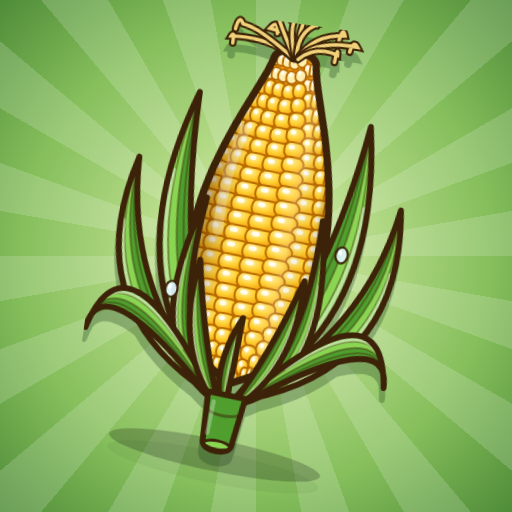
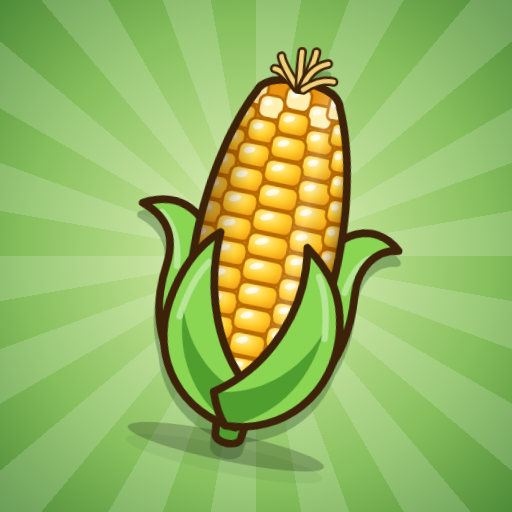
Chunkier cartoon corn art and Titan One font
Claude-Session: https://claude.ai/code/session_01UC9ARqXkBNybh3LQ7YcKBk

Changed region(s): [[0.1562, 0.0312, 0.8125, 0.9375]]

diff --git a/index.html b/index.html
@@ -13,19 +13,18 @@
 <link rel="apple-touch-icon" href="icon-180.png">
 <link rel="icon" type="image/png" href="icon-192.png">
 <title>Corn Hub</title>
-<link rel="preconnect" href="https://fonts.googleapis.com">
-<link href="https://fonts.googleapis.com/css2?family=Lilita+One&display=swap" rel="stylesheet">
 <style>
 /* VOICE: chunky comic mobile-game, glossy and juicy
    IDEA: a corn-sorting arcade with a home hub, unlockable backdrops and treasure cobs
    PICTURE: one big outlined ear of corn, tapered rows of shiny kernels, layered veined husks
-   COLOUR and TYPE: themeable sunburst (default muted leaf-green), kernel gold; Lilita One with dark outline
+   COLOUR and TYPE: themeable sunburst (default muted leaf-green), kernel gold; Titan One with dark outline
    LAYOUT: home hub (logo, cob, play), game (HUD, cob, two buttons), full-screen panels for skins and missions */
[1 lines of base64/hex data omitted]
 :root{color-scheme:light;--red:#e24a3b;--grn:#4fb53a}
 *{box-sizing:border-box;min-width:0;-webkit-tap-highlight-color:transparent}
 [hidden]{display:none!important}
 html,body{height:100%;margin:0;overscroll-behavior:none}
-body{font:400 16px/1.3 'Lilita One',system-ui,sans-serif;color:#fff;overflow:hidden;user-select:none;-webkit-user-select:none;touch-action:manipulation;background:#f3c33a;background-size:150px 204px}
+body{font:400 16px/1.3 'Titan One','Arial Black',system-ui,sans-serif;color:#fff;overflow:hidden;user-select:none;-webkit-user-select:none;touch-action:manipulation;background:#f3c33a;background-size:150px 204px}
 button{font:inherit;color:#fff;cursor:pointer}
 .ol{text-shadow:0 4px 0 var(--ol),3px 3px 0 var(--ol),-3px 3px 0 var(--ol),3px -2px 0 var(--ol),-3px -2px 0 var(--ol),0 -3px 0 var(--ol),3px 0 0 var(--ol),-3px 0 0 var(--ol)}
 .ol2{text-shadow:0 2px 0 var(--ol),2px 2px 0 var(--ol),-2px 2px 0 var(--ol),2px -1px 0 var(--ol),-2px -1px 0 var(--ol),0 -2px 0 var(--ol)}
@@ -71,12 +70,12 @@ background:repeating-linear-gradient(92deg,#b9793a 0 22px,#a96a2e 22px 25px,#c28
 .hero{position:relative;display:grid;place-items:center;padding-bottom:34px;min-height:0}
 .hero svg{height:min(96%,40vh);max-height:380px;width:auto}
 #heroCob{animation:bob 2.2s ease-in-out infinite;will-change:transform}
-.hero .bestline{position:absolute;bottom:6px;left:0;right:0;font-size:20px}
+.hero .bestline{position:absolute;bottom:6px;left:0;right:0;font-size:min(17px,4.3vw);white-space:nowrap}
 .go{font-size:34px;background:linear-gradient(#ffd84a,#f29a0c);border:4px solid var(--ol);border-radius:22px;box-shadow:0 7px 0 var(--ol),inset 0 6px 0 rgba(255,255,255,.35);padding:12px 40px 14px;animation:throb 1.1s ease-in-out infinite}
 .go:active{transform:translateY(5px);box-shadow:0 1px 0 var(--ol);animation:none}
 #home .go{width:100%;font-size:40px;padding:14px}
 .menu{display:grid;grid-template-columns:1fr 1fr;gap:10px;margin-top:14px}
-.mbtn{position:relative;height:52px;font-size:19px;border:4px solid var(--ol);border-radius:18px;background:linear-gradient(var(--hud2),var(--hud));box-shadow:0 5px 0 var(--ol),inset 0 5px 0 rgba(255,255,255,.22)}
+.mbtn{position:relative;height:52px;font-size:min(17px,4.2vw);border:4px solid var(--ol);border-radius:18px;background:linear-gradient(var(--hud2),var(--hud));box-shadow:0 5px 0 var(--ol),inset 0 5px 0 rgba(255,255,255,.22)}
 .mbtn:active,.tbtn:active{transform:translateY(5px) scale(.97);box-shadow:0 1px 0 var(--ol)}
 .dot{position:absolute;top:-10px;right:-6px;min-width:26px;height:26px;border-radius:13px;background:var(--red);border:3px solid var(--ol);font-size:15px;line-height:20px;padding:0 5px}
 
@@ -153,8 +152,8 @@ button:focus-visible{outline:4px solid #fff;outline-offset:3px}
 .over{position:absolute;inset:0;display:grid;place-items:center;background:rgba(0,0,0,.55);z-index:6;padding:calc(env(safe-area-inset-top) + 12px) 12px calc(env(safe-area-inset-bottom) + 12px)}
 .panel{position:relative;background:linear-gradient(var(--hud2),var(--hud));border:5px solid var(--ol);border-radius:28px;box-shadow:0 8px 0 var(--ol),inset 0 4px 0 rgba(255,255,255,.25);padding:16px 14px 20px;max-width:380px;width:100%;max-height:100%;overflow:auto;text-align:center;animation:popin .4s cubic-bezier(.3,1.5,.5,1)}
 .panel.full{height:100%;display:grid;grid-template-rows:auto auto 1fr;padding-bottom:12px}
-.panel h2{font-size:36px;line-height:1;margin:4px 46px 6px;color:#ffe14d}
-.panel p{margin:6px 0;font-size:17px;line-height:1.25}
+.panel h2{font-size:29px;line-height:1;margin:4px 46px 6px;color:#ffe14d}
+.panel p{margin:6px 0;font-size:16px;line-height:1.25}
 .panel .big{font-size:76px;line-height:1}
 .x{position:absolute;top:10px;right:10px;width:44px;height:44px;border-radius:14px;border:4px solid var(--ol);background:var(--red);font-size:22px;box-shadow:0 4px 0 var(--ol);z-index:2}
 .demo{display:flex;justify-content:center;gap:6px;margin:8px 0;background:rgba(0,0,0,.2);border:3px solid var(--ol);border-radius:18px;padding:10px 4px 8px}
@@ -164,7 +163,7 @@ button:focus-visible{outline:4px solid #fff;outline-offset:3px}
 .chip{background:var(--a,rgba(0,0,0,.3));border:3px solid var(--ol);border-radius:12px;padding:1px 10px 3px;font-size:17px;box-shadow:0 3px 0 var(--ol)}
 .earn{font-size:26px;color:#ffe14d}
 .tabs{display:grid;grid-template-columns:1fr 1fr;gap:8px;margin:6px 0 10px}
-.tab{height:46px;font-size:19px;border:4px solid var(--ol);border-radius:14px;background:rgba(0,0,0,.3)}
+.tab{height:46px;font-size:15px;border:4px solid var(--ol);border-radius:14px;background:rgba(0,0,0,.3)}
 .tab.on{background:linear-gradient(#ffd84a,#f29a0c);box-shadow:0 4px 0 var(--ol)}
 .grid{display:grid;grid-template-columns:1fr 1fr;gap:10px;overflow:auto;align-content:start;padding:2px 2px 8px}
 .item{background:rgba(0,0,0,.25);border:4px solid var(--ol);border-radius:18px;padding:8px 8px 10px;display:grid;gap:6px}
@@ -372,19 +371,7 @@ const dstr=d=>d.getFullYear()+'-'+(d.getMonth()+1)+'-'+d.getDate();
 /* ---------- comic corn ---------- */
 let uid=0;
 const f=v=>v.toFixed(1);
-function leaf(b,c,t,w,c1,c2,ol){
-  const dx=t[0]-b[0],dy=t[1]-b[1],L=Math.hypot(dx,dy),nx=-dy/L,ny=dx/L;
-  const K=m=>[c[0]+nx*w*m,c[1]+ny*w*m],P=p=>f(p[0])+' '+f(p[1]);
-  const B=P(b),E=P(t),a=K(1),d=K(-.85),k=K(.68),u=.2,v=.78;
-  const sub=(s0,s1)=>[0,1].map(i=>(1-s0)*(1-s1)*b[i]+(s0*(1-s1)+s1*(1-s0))*k[i]+s0*s1*t[i]);
-  const pt=s=>[0,1].map(i=>(1-s)*(1-s)*b[i]+2*s*(1-s)*k[i]+s*s*t[i]);
-  const shape=`M${B}Q${P(a)} ${E}Q${P(d)} ${B}z`;
-  return `<path d="${shape}" fill="${c1}"/><path d="M${B}Q${P(K(0))} ${E}Q${P(d)} ${B}z" fill="${c2}"/>
-  <path d="${[0,.5,-.42,.82].map(m=>`M${B}Q${P(K(m))} ${E}`).join('')}" fill="none" stroke="${ol}" stroke-width="1.4" opacity=".4"/>
-  <path d="M${P(pt(u))}Q${P(sub(u,v))} ${P(pt(v))}" fill="none" stroke="#fff" stroke-width="3" stroke-linecap="round" opacity=".42"/>
-  <path d="${shape}" fill="none" stroke="${ol}" stroke-width="4" stroke-linejoin="round"/>`;
-}
-const Wd=y=>{const t=Math.max(0,Math.min(1,(y-28)/224));return 46*Math.pow(Math.sin(Math.PI*Math.min(1,.05+.95*Math.pow(t,1.3))),.6)};
+const Wd=y=>{const t=Math.max(0,Math.min(1,(y-30)/222));return 56*Math.pow(Math.sin(Math.PI*Math.min(1,.1+.75*t)),.45)};
 function cob(type,seed,still,skinId,layers){
   const sk=SK.find(s=>s.id===(skinId||S.cob))||SK[0];
   const t=type==='good'?Object.assign({},T.good,{base:sk.base,ks:sk.ks,g:sk.g}):T[type];
@@ -392,26 +379,25 @@ function cob(type,seed,still,skinId,layers){
   const r=v=>{seed=(seed*9301+49297)%233280;return seed/233280*v};
   const hus=t.hus||(r(1)<.5?['#8ad653','#4f9e2e']:['#9ade5c','#5aa834']);
   let L='',R='';
-  for(let y=28;y<=252;y+=8){const w=Wd(y);L+=`L${f(110-w)} ${y}`;R=`L${f(110+w)} ${y}`+R}
-  const body=`M110 19Q${f(110-Wd(28))} 19 ${L.slice(1)}Q110 262 ${R.slice(1)}Q${f(110+Wd(28))} 19 110 19z`;
-  const ph=[0,1,2,3,4,5,6,7,8].map(()=>r(6));
+  for(let y=30;y<=252;y+=6){const w=Wd(y);L+=`L${f(110-w)} ${y}`;R=`L${f(110+w)} ${y}`+R}
+  const body=`M110 16Q${f(110-Wd(30)*.9)} 17 ${L.slice(1)}Q110 268 ${R.slice(1)}Q${f(110+Wd(30)*.9)} 17 110 16z`;
   let k='';
-  for(let row=0;row<23;row++){
-    for(let i=0;i<9;i++){
-      const th=(-76+i*19)*Math.PI/180,c=Math.cos(th);
-      const yy=24+row*10.2+ph[i]+4*(1-c),w=Wd(yy),sc=w/46;
-      if(w<6)continue;
-      const x=110+w*1.03*Math.sin(th),rx=(8.3*c+.8)*sc+.4,ry=row<2?4.3:5.4,tip=row<2;
-      let fill=`url(#${id}k)`,hi=.85,dot='';
-      if(bad){const q=r(1);fill=q<.4?'#4a3326':q<.7?'#3a2619':q<.85?'#6a4d33':'#1a110a';hi=r(1)<.25?.25:0}
+  for(let row=0;row<13;row++){
+    for(let i=0;i<5;i++){
+      const th=(-62+i*31)*Math.PI/180,c=Math.cos(th);
+      const yy=30+row*19.5+(i%2?9.75:0)+3*(1-c),w=Wd(yy);
+      if(yy>266)continue;
+      const x=110+w*Math.sin(th),rx=w*.262*c+1.4,ry=9.1,tip=yy<44;
+      let fill=`url(#${id}k)`,hi=.75,dot='';
+      if(bad){const q=r(1);fill=q<.4?'#4a3326':q<.7?'#3a2619':q<.85?'#6a4d33':'#1a110a';hi=r(1)<.3?.2:0}
       else if(type==='good'){if(tip)fill=sk.tip;else if(sk.g2&&r(1)<.42)fill=`url(#${id}j)`}
-      else if(type==='galaxy'){hi=.3;if(r(1)<.2)dot=`<circle cx="${f(x+r(4)-2)}" cy="${f(yy+r(3)-1)}" r="${f(.9+r(1.1))}" fill="#fff"/>`}
+      else if(type==='galaxy'){hi=.3;if(r(1)<.45)dot=`<circle cx="${f(x+r(8)-4)}" cy="${f(yy+r(8)-4)}" r="${f(1+r(1.4))}" fill="#fff"/>`}
       if(type==='diamond'){
-        const q=Math.min(rx,ry)*.55,X0=f(x-rx),X1=f(x+rx),Y0=f(yy-ry),Y1=f(yy+ry);
-        k+=`<path d="M${f(x-rx+q)} ${Y0}H${f(x+rx-q)}L${X1} ${f(yy-ry+q)}V${f(yy+ry-q)}L${f(x+rx-q)} ${Y1}H${f(x-rx+q)}L${X0} ${f(yy+ry-q)}V${f(yy-ry+q)}z" fill="${fill}" stroke="${t.ks}" stroke-width="1.2"/><path d="M${f(x-rx*.55)} ${f(yy-ry*.45)}H${f(x+rx*.55)}L${f(x)} ${f(yy+ry*.6)}z" fill="#fff" opacity="${f(.25+r(.45))}"/>`;
+        const q=Math.min(rx,ry)*.5,X0=f(x-rx),X1=f(x+rx),Y0=f(yy-ry),Y1=f(yy+ry);
+        k+=`<path d="M${f(x-rx+q)} ${Y0}H${f(x+rx-q)}L${X1} ${f(yy-ry+q)}V${f(yy+ry-q)}L${f(x+rx-q)} ${Y1}H${f(x-rx+q)}L${X0} ${f(yy+ry-q)}V${f(yy-ry+q)}z" fill="${fill}" stroke="${t.ks}" stroke-width="2"/><path d="M${f(x-rx*.55)} ${f(yy-ry*.5)}H${f(x+rx*.55)}L${f(x)} ${f(yy+ry*.6)}z" fill="#fff" opacity="${f(.3+r(.45))}"/>`;
       }else{
-        k+=`<rect x="${f(x-rx)}" y="${f(yy-ry)}" width="${f(rx*2)}" height="${f(ry*2)}" rx="${f(Math.min(rx,4.6))}" fill="${fill}" stroke="${t.ks}" stroke-width="1.3"/>${dot}`;
-        if(hi)k+=`<ellipse cx="${f(x-rx*.3)}" cy="${f(yy-2)}" rx="${f(2.6*c*sc+.3)}" ry="1.7" fill="#fff" opacity="${hi}"/>`;
+        k+=`<rect x="${f(x-rx)}" y="${f(yy-ry)}" width="${f(rx*2)}" height="${f(ry*2)}" rx="${f(Math.min(rx*.7,6))}" fill="${fill}" stroke="${t.ks}" stroke-width="2.2"/>${dot}`;
+        if(hi)k+=`<ellipse cx="${f(x-rx*.32)}" cy="${f(yy-ry*.34)}" rx="${f(rx*.36)}" ry="${f(ry*.28)}" transform="rotate(-24 ${f(x-rx*.32)} ${f(yy-ry*.34)})" fill="#fff" opacity="${hi}"/>`;
       }
     }
   }
@@ -423,9 +409,9 @@ function cob(type,seed,still,skinId,layers){
   else if(t.g)grad=rg('k',t.g)+(type==='good'&&sk.g2?rg('j',sk.g2):'');
   let extra='',around='';
   if(bad){
-    for(let i=0;i<4;i++){const cx=82+r(56),cy=60+r(140),rr=7+r(6);
+    for(let i=0;i<4;i++){const cx=80+r(60),cy=60+r(110),rr=9+r(7);
       extra+=`<circle cx="${f(cx)}" cy="${f(cy)}" r="${f(rr)}" fill="#7d8099" stroke="#1c140c" stroke-width="2.2"/><circle cx="${f(cx+rr*.3)}" cy="${f(cy+rr*.25)}" r="${f(rr*.5)}" fill="#5d5f78"/><ellipse cx="${f(cx-rr*.35)}" cy="${f(cy-rr*.4)}" rx="${f(rr*.3)}" ry="${f(rr*.2)}" fill="#fff" opacity=".6"/>`}
-    for(let i=0;i<2;i++){const cx=84+r(52),cy=80+r(110);
+    for(let i=0;i<2;i++){const cx=82+r(56),cy=70+r(90);
       extra+=`<g stroke="#3d5a14" stroke-width="2" fill="#b4d455">${[0,1,2,3].map(j=>`<circle cx="${f(cx+Math.cos(j*1.6)*7)}" cy="${f(cy+Math.sin(j*1.6)*6)}" r="${f(5+r(3))}"/>`).join('')}</g>`}
     const fl=(x,y,d)=>`<g transform="translate(${f(x)} ${f(y)})"><g>${anim(`<animateTransform attributeName="transform" type="translate" values="0 0;7 -5;-5 3;4 7;-6 -4;0 0" dur="${d}s" repeatCount="indefinite"/>`)}<ellipse cx="-5" cy="-6" rx="6" ry="4" fill="#e8f4ff" stroke="${ol}" stroke-width="1.8" transform="rotate(-30 -5 -6)"/><ellipse cx="5" cy="-6" rx="6" ry="4" fill="#e8f4ff" stroke="${ol}" stroke-width="1.8" transform="rotate(30 5 -6)"/><ellipse rx="5.5" ry="4.5" fill="#222" stroke="${ol}" stroke-width="1.8"/><circle cx="3" cy="-1" r="1.6" fill="#e33"/></g></g>`;
     const tr=(x,y,b)=>`<g>${anim(`<animateTransform attributeName="transform" type="translate" values="0 8;0 -10" dur="1.6s" begin="${b}s" repeatCount="indefinite"/><animate attributeName="opacity" values="0;1;1;0" dur="1.6s" begin="${b}s" repeatCount="indefinite"/>`)}<path d="M${x} ${y}c-6-8 6-14 0-22s6-14 0-22" fill="none" stroke="${ol}" stroke-width="7" stroke-linecap="round"/><path d="M${x} ${y}c-6-8 6-14 0-22s6-14 0-22" fill="none" stroke="#9fc23e" stroke-width="3.5" stroke-linecap="round"/></g>`;
@@ -433,36 +419,40 @@ function cob(type,seed,still,skinId,layers){
   }else if(t.name){
     const star=(x,y,s,b)=>`<g transform="translate(${x} ${y}) scale(${s})"><path d="M0-12Q1.5-1.5 12 0Q1.5 1.5 0 12Q-1.5 1.5-12 0Q-1.5-1.5 0-12z" fill="#fff" stroke="${ol}" stroke-width="1.6" stroke-linejoin="round">${anim(`<animateTransform attributeName="transform" type="scale" values="0;1;0" dur="1.3s" begin="${b}s" repeatCount="indefinite"/>`)}</path></g>`;
     around=star(30,52,1.1,0)+star(192,44,.9,.4)+star(204,196,1.2,.8)+star(16,204,.8,.2)+star(140,4,.8,.6)+star(146,116,.7,1)+star(80,170,.6,.5);
-    extra=`<g transform="skewX(-18)"><rect x="${still?130:20}" y="0" width="${type==='diamond'?34:24}" height="320" fill="#fff" opacity=".5">${anim(`<animate attributeName="x" values="20;290;290" keyTimes="0;.45;1" dur="${type==='diamond'?1.8:2.4}s" repeatCount="indefinite"/>`)}</rect></g>`;
+    extra=`<g transform="skewX(-18)"><rect x="${still?128:20}" y="0" width="${type==='diamond'?30:22}" height="320" fill="#fff" opacity=".5">${anim(`<animate attributeName="x" values="20;290;290" keyTimes="0;.45;1" dur="${type==='diamond'?1.8:2.4}s" repeatCount="indefinite"/>`)}</rect></g>`;
   }
   const heart=type==='life'?`<g transform="translate(110 122)"><g>${anim(`<animateTransform attributeName="transform" type="scale" values="1;1.18;1" dur=".7s" repeatCount="indefinite"/>`)}<path d="M0 26c-30-20-38-38-25-51 9-9 20-5 25 4 5-9 16-13 25-4 13 13 5 31-25 51z" fill="#ff3b5c" stroke="${ol}" stroke-width="4.5" stroke-linejoin="round"/><path d="M-17-16c-4 4-4 10 0 16" fill="none" stroke="#fff" stroke-width="4" stroke-linecap="round" opacity=".7"/></g></g>`:'';
-  const worm=bad&&r(1)<.6?`<g>${anim(`<animateTransform attributeName="transform" type="rotate" values="-10 152 126;12 152 126;-10 152 126" dur="1.1s" repeatCount="indefinite"/>`)}<path d="M152 126c14-2 20-12 16-24" fill="none" stroke="${ol}" stroke-width="12" stroke-linecap="round"/><path d="M152 126c14-2 20-12 16-24" fill="none" stroke="#c6e05a" stroke-width="7" stroke-linecap="round"/><path d="M160 122l3 5M166 115l5 3" stroke="#8fae2e" stroke-width="1.5"/><circle cx="166" cy="103" r="1.6" fill="${ol}"/><circle cx="171" cy="104" r="1.6" fill="${ol}"/></g>`:'';
+  const worm=bad&&r(1)<.6?`<g transform="translate(10 -4)"><g>${anim(`<animateTransform attributeName="transform" type="rotate" values="-10 152 126;12 152 126;-10 152 126" dur="1.1s" repeatCount="indefinite"/>`)}<path d="M152 126c14-2 20-12 16-24" fill="none" stroke="${ol}" stroke-width="12" stroke-linecap="round"/><path d="M152 126c14-2 20-12 16-24" fill="none" stroke="#c6e05a" stroke-width="7" stroke-linecap="round"/><path d="M160 122l3 5M166 115l5 3" stroke="#8fae2e" stroke-width="1.5"/><circle cx="166" cy="103" r="1.6" fill="${ol}"/><circle cx="171" cy="104" r="1.6" fill="${ol}"/></g></g>`:'';
   let silk='';
-  const ns=bad?4:10;
+  const ns=bad?3:6;
   for(let i=0;i<ns;i++){
-    const a=(-80+i*160/(ns-1)+r(14)-7)*Math.PI/180,len=(bad?12:22)+r(bad?8:20),ex=110+Math.sin(a)*len*1.25,ey=22-Math.cos(a)*len,cv=r(26)-13;
-    const d=`M${f(108+i*4/ns)} 24Q${f((110+ex)/2+cv)} ${f((24+ey)/2-8)} ${f(ex)} ${f(ey)}q${f(cv*.4)} ${f(-4-r(4))} ${f(cv*.5)} ${f(2+r(5))}`;
-    silk+=`<path d="${d}" fill="none" stroke="${ol}" stroke-width="5.2" stroke-linecap="round"/><path d="${d}" fill="none" stroke="${t.silk}" stroke-width="2.4" stroke-linecap="round"/>`;
+    const a=(-64+i*128/(ns-1)+r(12)-6)*Math.PI/180,len=(bad?12:20)+r(bad?6:12),ex=110+Math.sin(a)*len*1.2,ey=20-Math.cos(a)*len,cv=r(20)-10;
+    const d=`M${f(107+i*6/ns)} 22Q${f((110+ex)/2+cv)} ${f((22+ey)/2-6)} ${f(ex)} ${f(ey)}`;
+    silk+=`<path d="${d}" fill="none" stroke="${ol}" stroke-width="7.500" stroke-linecap="round"/><path d="${d}" fill="none" stroke="${t.silk}" stroke-width="3.6" stroke-linecap="round"/>`;
   }
-  const j=()=>r(10)-5,dr=bad?14:0;
-  const pair=(b,c,tp,w)=>{const a=j(),e=j();return leaf(b,c,[tp[0]+a,tp[1]+e+dr],w,hus[0],hus[1],ol)+leaf([220-b[0],b[1]],[220-c[0],c[1]],[220-tp[0]-a,tp[1]+e+dr],-w,hus[0],hus[1],ol)};
-  const drop=(x,y)=>`<ellipse cx="${x}" cy="${y}" rx="4.2" ry="5.6" fill="#e2f7ff" stroke="${ol}" stroke-width="1.6" opacity=".92"/><ellipse cx="${x-1.3}" cy="${y-1.6}" rx="1.2" ry="1.8" fill="#fff"/>`;
+  const j=()=>r(8)-4,dr=bad?16:0;
+  // husk(shape, crease, shine): one broad wrapped leaf with a darker inner side and a soft highlight
+  const husk=(d,crease,shine)=>`<path d="${d}" fill="${hus[0]}"/><path d="${crease}" fill="${hus[1]}"/><path d="${shine}" fill="none" stroke="#fff" stroke-width="5" stroke-linecap="round" opacity=".38"/><path d="${d}" fill="none" stroke="${ol}" stroke-width="6" stroke-linejoin="round"/>`;
+  const a1=j(),a2=j(),a3=j(),a4=j();
+  const backL=husk(`M102 280C58 268 30 228 36 ${176+dr}C38 ${156+dr} 30 ${140+dr} ${8+a1} ${136+a2+dr*1.6}C34 ${118+dr} 62 ${130+dr} 68 ${162+dr}C72 204 84 244 102 280z`,
+    `M102 280C70 262 48 226 46 ${182+dr}C60 ${200+dr} 76 244 102 280z`,`M44 ${176+dr}C42 ${158+dr} 36 ${146+dr} ${24+a1} ${140+a2+dr*1.4}`);
+  const backR=husk(`M118 280C162 268 190 228 184 ${170+dr}C182 ${150+dr} 192 ${132+dr} ${214+a3} ${126+a4+dr*1.6}C188 ${110+dr} 158 ${124+dr} 152 ${158+dr}C148 202 136 244 118 280z`,
+    `M118 280C150 262 172 226 174 ${178+dr}C160 ${198+dr} 144 244 118 280z`,`M176 ${170+dr}C178 ${152+dr} 186 ${140+dr} ${198+a3} ${134+a4+dr*1.4}`);
+  const frontL=husk(`M114 290C72 288 38 252 44 204C47 180 56 ${160+a2} ${72+a1} ${146+a2}C70 190 88 238 126 264Q122 282 114 290z`,
+    `M114 290C84 280 58 250 56 208C66 236 90 262 126 264Q122 282 114 290z`,`M54 214C56 196 60 180 68 168`);
+  const frontR=husk(`M106 290C150 288 186 250 178 198C174 174 164 ${154+a4} ${144+a3} ${138+a4}C150 186 132 238 92 266Q98 282 106 290z`,
+    `M106 290C138 280 164 248 166 204C156 234 130 262 92 266Q98 282 106 290z`,`M168 208C166 190 162 174 154 162`);
   const defs=`<defs>${grad}
   <linearGradient id="${id}s" x1="0" x2="1"><stop offset="0" stop-color="${t.shade}" stop-opacity=".62"/><stop offset=".3" stop-color="${t.shade}" stop-opacity="0"/><stop offset=".6" stop-color="#fff" stop-opacity="0"/><stop offset=".7" stop-color="#fff" stop-opacity=".2"/><stop offset=".84" stop-color="${t.shade}" stop-opacity="0"/><stop offset="1" stop-color="${t.shade}" stop-opacity=".68"/></linearGradient>
   <clipPath id="${id}c"><path d="${body}"/></clipPath></defs>`;
   const rot=f(r(8)-4);
-  const U=`<ellipse cx="110" cy="302" rx="74" ry="11" fill="rgba(0,0,0,.22)"/>${pair([106,264],[12,214],[20,112],-20)}${pair([106,264],[38,190],[50,60],-24)}`;
+  const U=`<ellipse cx="110" cy="306" rx="78" ry="11" fill="rgba(0,0,0,.22)"/>${backL}${backR}`;
   const B=`<path d="${body}" fill="${t.base}"/>
-  <g clip-path="url(#${id}c)">${k}${bad?extra:''}<rect x="60" y="14" width="100" height="250" fill="url(#${id}s)"/>${bad?'':extra}</g>
-  <path d="${body}" fill="none" stroke="${ol}" stroke-width="5" stroke-linejoin="round"/>
-  <path d="M86 78c-6 20-7 46-5 72" fill="none" stroke="#fff" stroke-width="7" stroke-linecap="round" opacity="${bad?.1:.26}"/>`;
+  <g clip-path="url(#${id}c)">${k}${bad?extra:''}<rect x="50" y="10" width="120" height="264" fill="url(#${id}s)"/>${bad?'':extra}</g>
+  <path d="${body}" fill="none" stroke="${ol}" stroke-width="6" stroke-linejoin="round"/>`;
   const O=`${silk}${heart}${worm}
-  ${pair([108,268],[52,238],[66,130],-13)}${pair([106,270],[14,172],[6,236],18)}${pair([108,272],[78,234],[76,170],-12)}
-  ${leaf([110,274],[102,246],[114+j(),208+j()],9,hus[0],hus[1],ol)}
-  <path d="M97 260h26l-3 34c-1 7-19 7-20 0z" fill="${hus[1]}" stroke="${ol}" stroke-width="4" stroke-linejoin="round"/>
-  <path d="M98 272q12 5 24 0" fill="none" stroke="${ol}" stroke-width="2" opacity=".5"/><path d="M102 266v22" stroke="#fff" stroke-width="3" stroke-linecap="round" opacity=".3"/>
-  <ellipse cx="110" cy="295" rx="9" ry="3" fill="${hus[0]}" stroke="${ol}" stroke-width="2"/>
-  ${bad?'':drop(58,196)+drop(168,150)}`;
+  <path d="M98 282h24l-2 16c-1 7-19 7-20 0z" fill="${hus[1]}" stroke="${ol}" stroke-width="6" stroke-linejoin="round"/>
+  ${frontL}${frontR}`;
   if(layers){
     const wrap=x=>`<svg xmlns="http://www.w3.org/2000/svg" viewBox="-30 -40 280 380" width="700" height="950">${defs}<g transform="rotate(${rot} 110 160)">${x}</g></svg>`;
     return layers===3?[wrap(U),wrap(B),wrap(O)]:[wrap(U+B+O)];
@@ -560,7 +550,7 @@ function drawMissions(){
 let lastEntry=null;
 function drawBoard(){
   $('nameIn').value=S.name||'';
-  $('lbStats').textContent=`${S.t.games} games · ${S.t.cobs} cobs sorted · ${S.t.rare} rare cobs`;
+  $('lbStats').textContent=`${S.t.games} game${S.t.games===1?'':'s'} · ${S.t.cobs} cobs sorted · ${S.t.rare} rare cobs`;
   $('lbList').innerHTML=S.top.length?S.top.map((e,i)=>`<div class="lr ${e===lastEntry?'me':''}"><div class="rk ol2">${i+1}</div><div class="who ol2">${esc(e.nm||'Player')}<small>${e.n?e.n+' cobs · streak '+e.st+(e.d?' · '+esc(e.d):''):'earlier best'}</small></div><div class="sc ol">${+e.s||0}</div></div>`).join('')
     :'<p class="ol2">No scores yet. Play a game to get on the board!</p>';
 }

diff --git a/README.md b/README.md
@@ -27,3 +27,7 @@ Progress is saved on your own device.
 
 - `index.html`: the whole game (HTML, CSS and JavaScript, no build step)
 - `manifest.webmanifest`, `sw.js`, `icon-*.png`: install and offline support
+
+## Credits
+
+The game font is Titan One by Rodrigo Fuenzalida, used under the SIL Open Font License (see `FONT-LICENSE.txt`).
